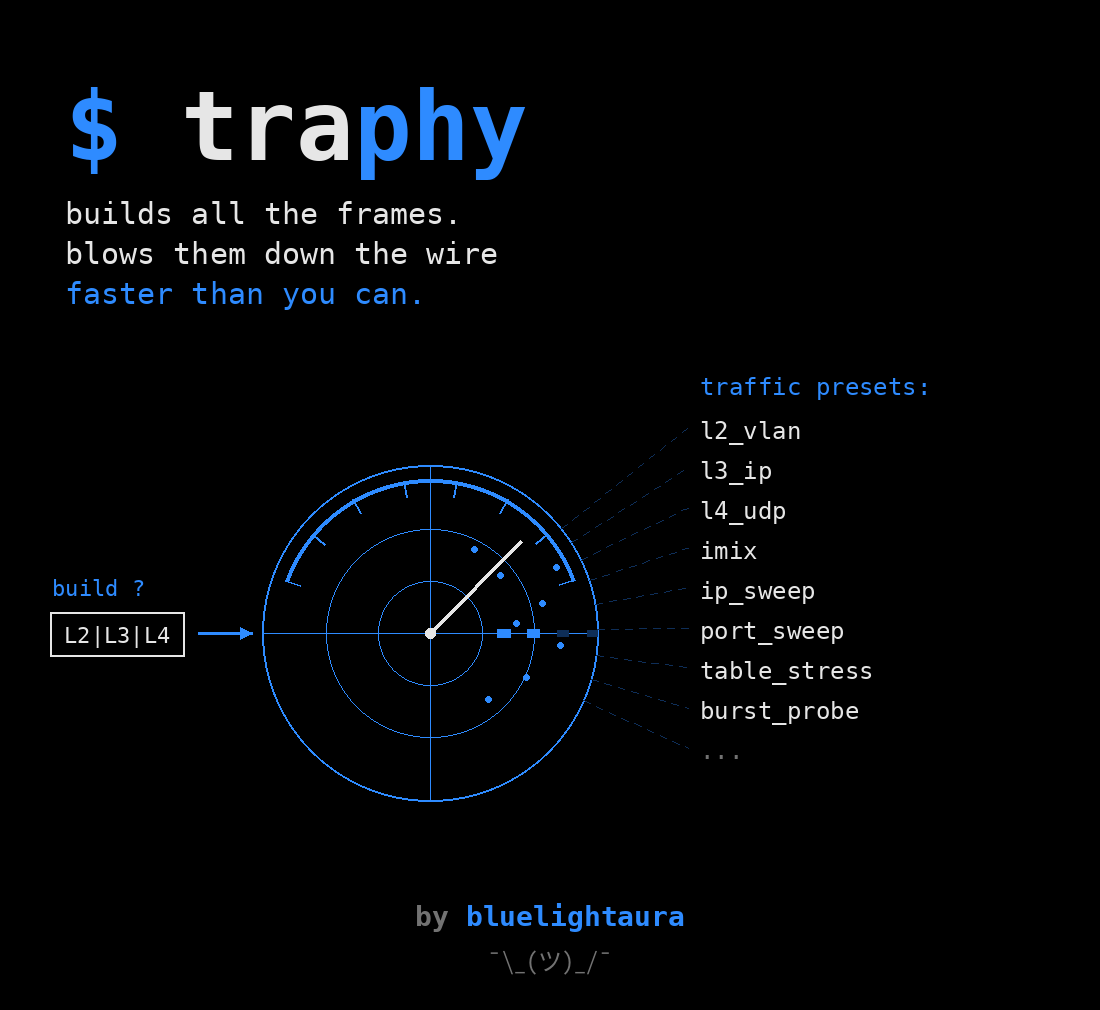
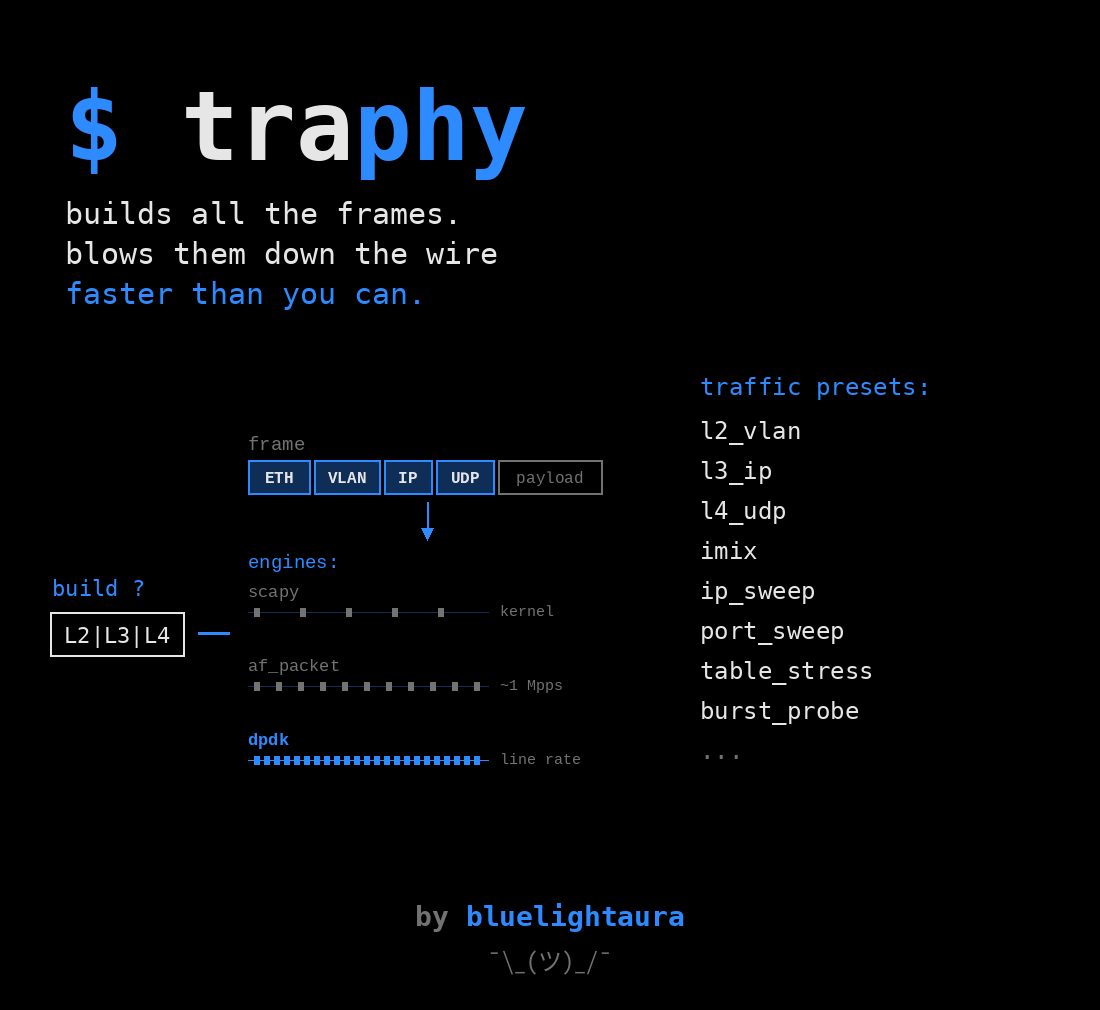
Баннер: вместо радара - кадр и три способа положить его в провод
Радар был красивый и ни о чём: он ничего не говорил про то, чем инструмент
стал. В середине теперь то, что отличает TRaphy от «скрипта со Scapy»: кадр
собирается один, а уехать может тремя путями, и плотность точек на проводах
показывает, чем за каждый платят - ядром, af_packet или картой.

Заодно баннер перестал быть рисунком без исходника. Генератор лежит в tools/, а
не в scripts/: туда падают сгенерированные скрипты прогонов, и этот каталог
закрыт .gitignore именно потому, что в них настоящие интерфейсы и адреса.

diff --git a/tools/banner.py b/tools/banner.py
@@ -1,0 +1,107 @@
+#!/usr/bin/env python3
+"""Перерисовать середину баннера: кадр и три способа положить его в провод.
+
+Раньше там был радар - красиво, но ни о чём: он ничего не говорил про то, чем
+инструмент стал. Теперь в середине то, что и отличает TRaphy от «скрипта со
+Scapy»: кадр собирается один, а уехать в провод может тремя разными путями, и
+плотность точек на проводах показывает, чем за это платят.
+
+Остальной баннер не трогается - заголовок, подпись, левый блок и список
+пресетов остаются как были. Скрипт идемпотентный: гоняется поверх исходника.
+"""
+from __future__ import annotations
+
+import sys
+from pathlib import Path
+
+from PIL import Image, ImageDraw, ImageFont
+
+ROOT = Path(__file__).resolve().parent.parent
+BANNER = ROOT / "assets" / "traphy-banner.png"
+
+BG = (0, 0, 0)
+BLUE = (46, 139, 255)
+LIGHT = (230, 230, 230)
+DIM = (114, 114, 114)
+DEEP = (14, 46, 88)
+
+# Та часть холста, где был круг с выносками. Границы сняты с исходника.
+AREA = (230, 420, 695, 815)
+
+MONO = "/usr/share/fonts/liberation-mono-fonts/LiberationMono-Regular.ttf"
+MONO_BOLD = "/usr/share/fonts/liberation-mono-fonts/LiberationMono-Bold.ttf"
+
+
+def font(size: int, bold: bool = False) -> ImageFont.FreeTypeFont:
+    return ImageFont.truetype(MONO_BOLD if bold else MONO, size)
+
+
+def draw_frame(d: ImageDraw.ImageDraw, x: int, y: int) -> int:
+    """Кадр как он собирается: заголовки слоями, слева направо."""
+    parts = [("ETH", 62), ("VLAN", 66), ("IP", 48), ("UDP", 58), ("payload", 104)]
+    d.text((x, y - 26), "frame", font=font(19), fill=DIM)
+    cursor = x
+    for i, (name, width) in enumerate(parts):
+        filled = i < 4                       # заголовки ярче полезной нагрузки
+        d.rectangle([cursor, y, cursor + width, y + 34],
+                    outline=BLUE if filled else DIM, width=2,
+                    fill=DEEP if filled else None)
+        text = font(16, bold=filled)
+        tw = d.textlength(name, font=text)
+        d.text((cursor + (width - tw) / 2, y + 9), name, font=text,
+               fill=LIGHT if filled else DIM)
+        cursor += width + 4
+    return cursor
+
+
+def draw_wire(d: ImageDraw.ImageDraw, x: int, y: int, width: int,
+              label: str, note: str, step: int, bright: bool) -> None:
+    """Провод с кадрами. Чем плотнее точки, тем выше скорость."""
+    colour = BLUE if bright else DIM
+    d.line([x, y, x + width, y], fill=DEEP if not bright else colour, width=1)
+    for pos in range(x + 6, x + width - 4, step):
+        d.rectangle([pos, y - 4, pos + 5, y + 4], fill=colour)
+    d.text((x, y - 30), label, font=font(17, bold=bright), fill=colour)
+    d.text((x + width + 12, y - 9), note, font=font(15), fill=DIM)
+
+
+def main() -> int:
+    if not BANNER.exists():
+        print(f"нет файла {BANNER}", file=sys.stderr)
+        return 1
+    im = Image.open(BANNER).convert("RGB")
+    d = ImageDraw.Draw(im)
+
+    # Снести прежнюю середину вместе с выносками.
+    d.rectangle(list(AREA), fill=BG)
+
+    left, top = AREA[0] + 18, AREA[1] + 6
+    end = draw_frame(d, left, top + 34)
+
+    # Стрелка от кадра вниз, к проводам: один кадр - три пути.
+    mid = (left + end) // 2
+    d.line([mid, top + 76, mid, top + 104], fill=BLUE, width=2)
+    d.polygon([(mid - 6, top + 102), (mid + 6, top + 102), (mid, top + 114)],
+              fill=BLUE)
+
+    d.text((left, top + 126), "engines:", font=font(19), fill=BLUE)
+
+    wires = [
+        ("scapy", "kernel", 46, False),
+        ("af_packet", "~1 Mpps", 22, False),
+        ("dpdk", "line rate", 10, True),
+    ]
+    y = top + 186
+    for label, note, step, bright in wires:
+        draw_wire(d, left, y, 240, label, note, step, bright)
+        y += 74
+
+    # 256 цветов, как у остальных баннеров: PNG от этого втрое легче, а на
+    # чёрном фоне с двумя акцентами потерять нечего.
+    im.quantize(colors=256, method=Image.MEDIANCUT).save(BANNER, optimize=True)
+    print(f"перерисовано: {BANNER.relative_to(ROOT)} {im.size}")
+    return 0
+
+
+if __name__ == "__main__":
+    sys.exit(main())
